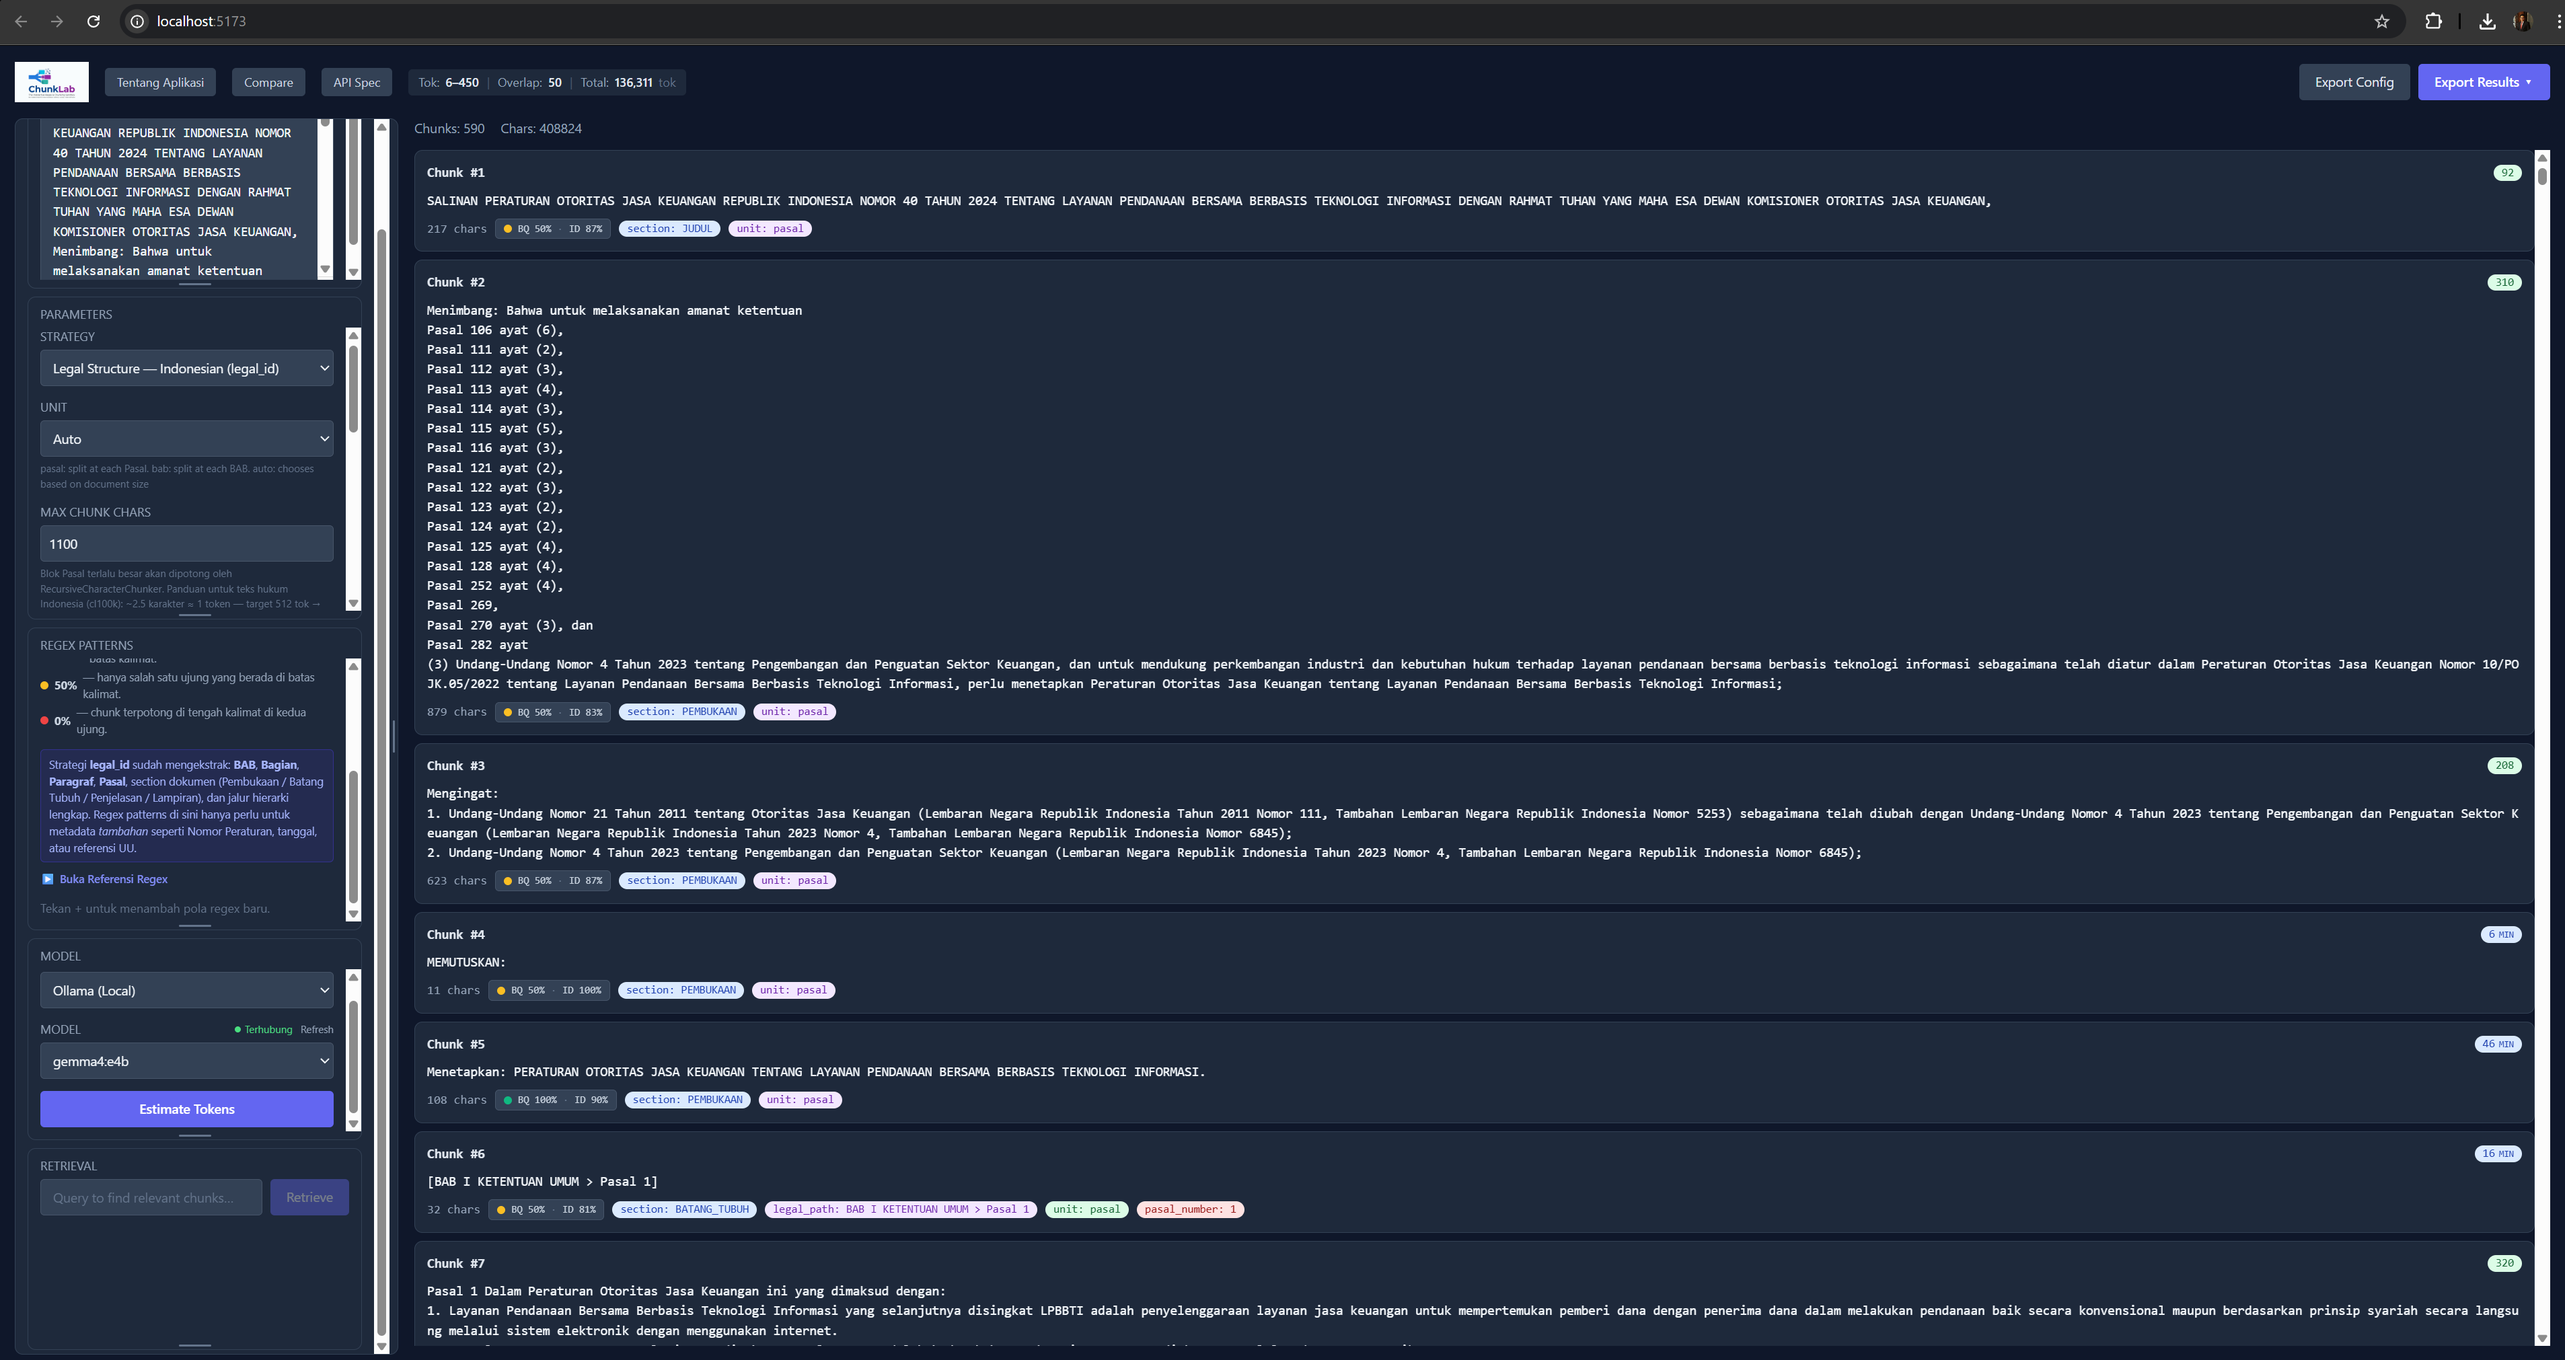
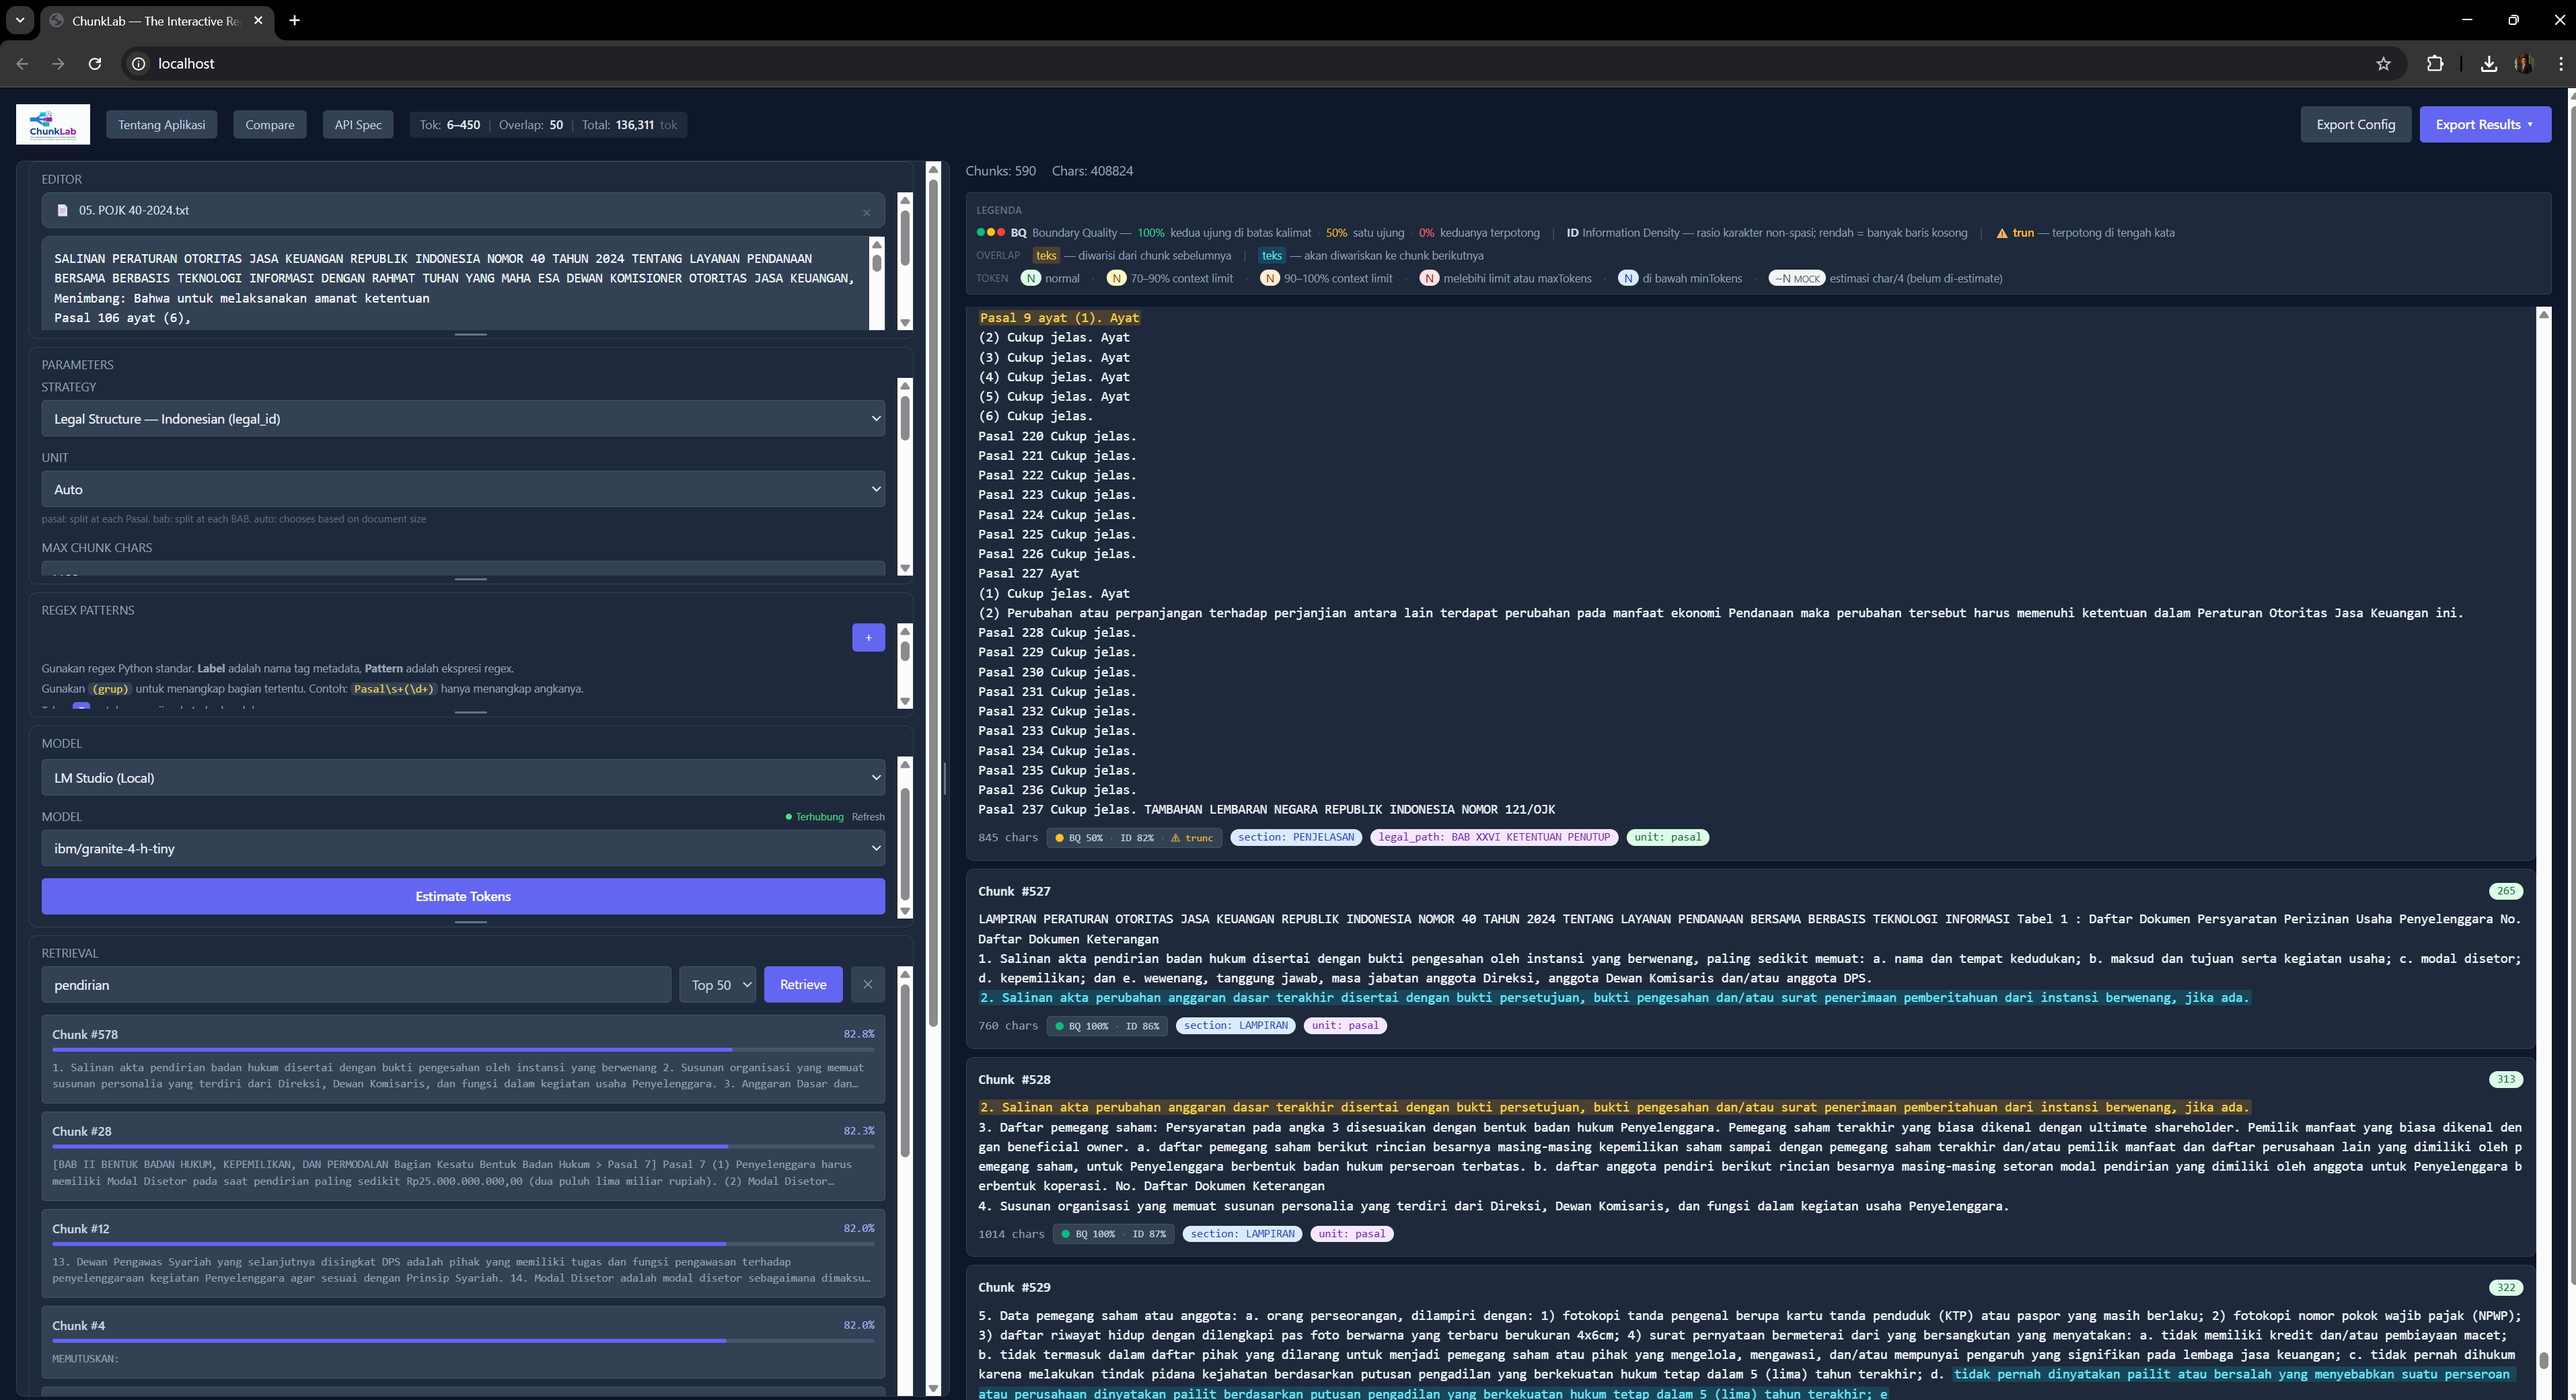
docs: update screenshot to reflect v2.3.0 UI

diff --git a/AGENTS.md b/AGENTS.md
@@ -1,1 +1,1 @@
-@CLAUDE.md
+read /CLAUDE.md in full
